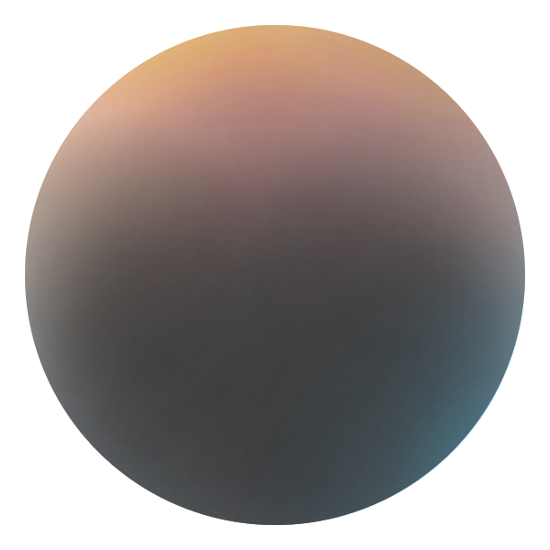
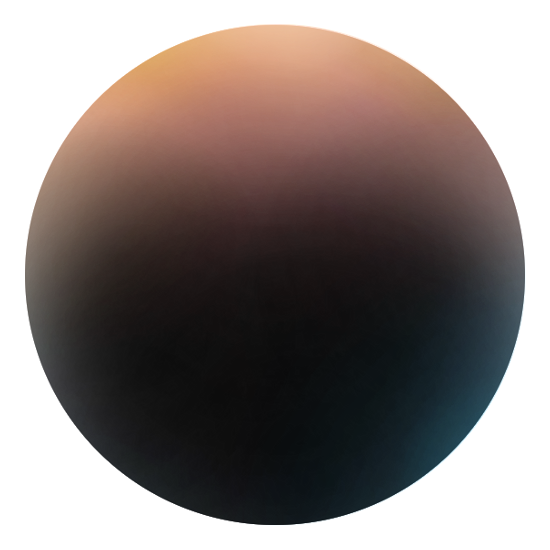
Added crt shader

diff --git a/galacticum/src/de/myreality/galacticum/screens/MenuScreen.java b/galacticum/src/de/myreality/galacticum/screens/MenuScreen.java
@@ -24,6 +24,7 @@ import com.badlogic.gdx.Gdx;
 import com.badlogic.gdx.Screen;
 import com.badlogic.gdx.files.FileHandle;
 import com.badlogic.gdx.graphics.Color;
+import com.badlogic.gdx.graphics.GL10;
 import com.badlogic.gdx.graphics.GL11;
 import com.badlogic.gdx.graphics.OrthographicCamera;
 import com.badlogic.gdx.graphics.Pixmap;
@@ -81,13 +82,15 @@ public abstract class MenuScreen implements Screen {
 	
 	private int width, height;
 	
-	private ShaderProgram blurShader;
+	private ShaderProgram blurShader, crtShader;
 	
 	private float time;
 	
     private FrameBuffer targetA;
     
     private FrameBuffer targetB;
+    
+    private FrameBuffer targetC;
 
 	// ===========================================================
 	// Constructors
@@ -155,7 +158,7 @@ public abstract class MenuScreen implements Screen {
 	@Override
 	public void render(float delta) {
 
-		Gdx.gl.glClearColor(0f, 0f, 0f, 1f);
+		Gdx.gl.glClearColor(0f, 0f, 0f, 0f);
 		Gdx.gl.glClear(GL11.GL_COLOR_BUFFER_BIT);
 		
 		// Rotate the earth
@@ -168,20 +171,20 @@ public abstract class MenuScreen implements Screen {
 
 		batch.setProjectionMatrix(camera.combined);
 		
-		time += delta;
+		time += delta * Math.random();
 		
 		drawTargetA(batch, delta);
 		drawTargetB(batch, delta);
-		TextureRegion bg = new TextureRegion(targetB.getColorBufferTexture());
+		drawTargetC(batch, delta);
+
+		TextureRegion bg = new TextureRegion(targetC.getColorBufferTexture());
 		
-		batch.setShader(blurShader);
+		batch.setShader(crtShader);
 		batch.begin();
-			blurShader.setUniformi("horizontal", 0);
 			blurShader.setUniformf("u_time", time);
 			batch.draw(bg, 0, 0);
 		batch.end();
 		batch.flush();
-		stage.draw();
 	}
 	
 	private void drawTargetA(Batch batch, float delta) {
@@ -203,6 +206,7 @@ public abstract class MenuScreen implements Screen {
 		TextureRegion targetABuffer = new TextureRegion(targetA.getColorBufferTexture());
 
 		targetB.begin();
+		
 		batch.begin();
 			blurShader.setUniformi("horizontal", 1);
 			blurShader.setUniformf("u_time", time);
@@ -210,7 +214,25 @@ public abstract class MenuScreen implements Screen {
 		batch.end();
 		targetB.end();
 		batch.flush();
-		batch.setShader(null);
+	}
+	
+	private void drawTargetC(Batch batch, float delta) {
+		
+		targetC.begin();
+
+		TextureRegion bg = new TextureRegion(targetB.getColorBufferTexture());
+		
+		batch.setShader(blurShader);
+		batch.begin();
+			blurShader.setUniformi("horizontal", 0);
+			blurShader.setUniformf("u_time", time);
+			batch.draw(bg, 0, 0);
+		batch.end();
+		batch.flush();
+
+		stage.draw();
+		
+		targetC.end();
 	}
 
 	/*
@@ -256,6 +278,7 @@ public abstract class MenuScreen implements Screen {
 		
 		targetA = new FrameBuffer(Pixmap.Format.RGBA8888, width, height, false);
 	    targetB = new FrameBuffer(Pixmap.Format.RGBA8888, width, height, false);
+	    targetC = new FrameBuffer(Pixmap.Format.RGBA8888, width, height, false);
 	}
 
 	/*
@@ -280,7 +303,13 @@ public abstract class MenuScreen implements Screen {
 		
 		blurShader = new ShaderProgram(blurVertex, blurFragment);
 		
+		FileHandle crtVertec = Gdx.files.internal("shaders/crt.vert");
+		FileHandle crtFragment = Gdx.files.internal("shaders/crt.frag");
+		
+		crtShader = new ShaderProgram(crtVertec, crtFragment);
+		
 		System.out.println(blurShader.getLog());
+		System.out.println(crtShader.getLog());
 	}
 
 	/*

diff --git a/galacticum/src/de/myreality/galacticum/screens/MainMenuScreen.java b/galacticum/src/de/myreality/galacticum/screens/MainMenuScreen.java
@@ -22,6 +22,7 @@ import aurelienribon.tweenengine.TweenCallback;
 import aurelienribon.tweenengine.TweenEquations;
 import aurelienribon.tweenengine.TweenManager;
 
+import com.badlogic.gdx.Gdx;
 import com.badlogic.gdx.graphics.g2d.SpriteBatch;
 import com.badlogic.gdx.scenes.scene2d.Stage;
 import com.badlogic.gdx.scenes.scene2d.ui.Image;
@@ -141,6 +142,11 @@ public class MainMenuScreen extends MenuScreen {
 		     .setCallbackTriggers(TweenCallback.COMPLETE)
 		     .ease(TweenEquations.easeInOutBack)
 		     .start(getTweenManager());
+		Tween.to(logo, ActorTween.POS_Y, 5f)
+	     .target(Gdx.graphics.getHeight() - logo.getHeight() * 1.5f)
+	     .repeatYoyo(Tween.INFINITY, 0)
+	     .ease(TweenEquations.easeInOutCubic)
+	     .start(getTweenManager());
 	}
 
 	// ===========================================================
